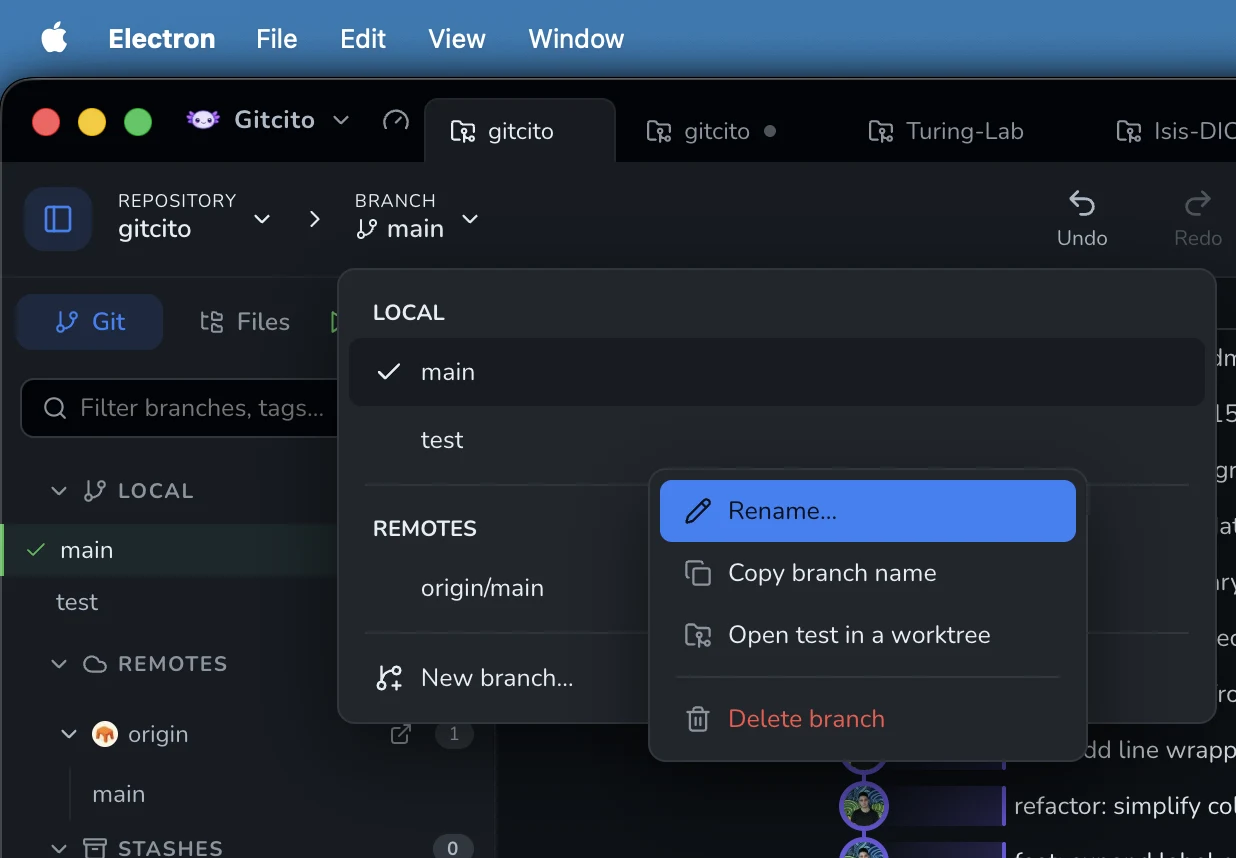
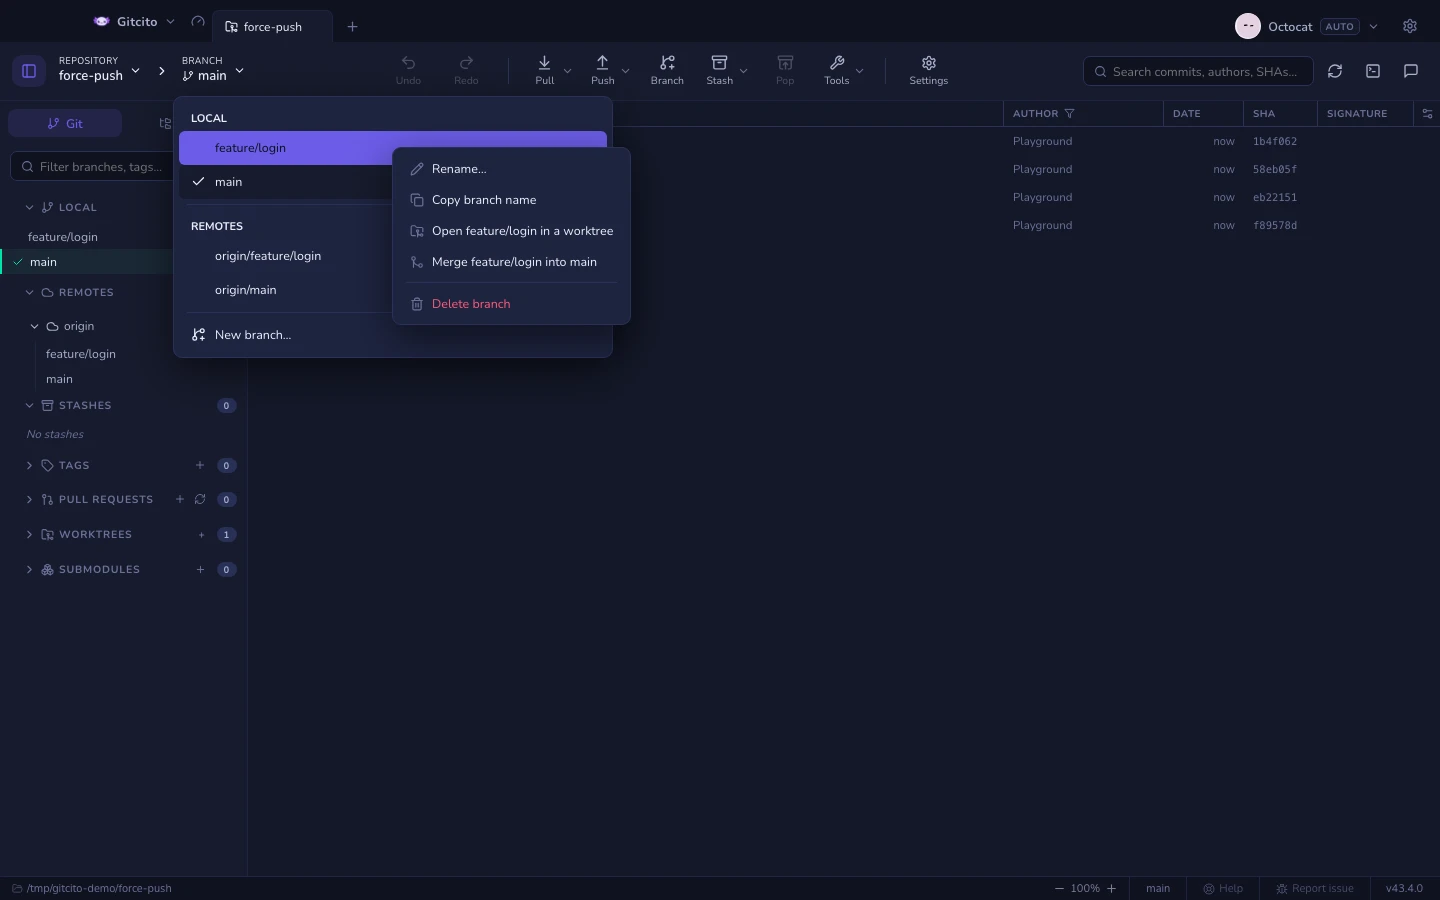
fix: regenerate branch dropdown shots via harness and localize docs
- Replace hand-grabbed screenshots with Playwright-driven captures
  against the force-push playground repo (shots.config.mjs entries)
- Translate the new branching.md section into all 15 handbook locales
- Render the branch pill label through toolbar.branch instead of a
  hardcoded string
- Revert the unrelated install-electron postinstall change

diff --git a/src/renderer/src/components/BranchStatusPicker.tsx b/src/renderer/src/components/BranchStatusPicker.tsx
@@ -212,7 +212,7 @@ export function BranchStatusPicker({ repo }: { repo: RepoData }): React.JSX.Elem
         onClick={toggle}
       >
         <span className="repo-pill-stack">
-          <span className="repo-pill-label">branch</span>
+          <span className="repo-pill-label">{t('toolbar.branch')}</span>
           <strong>
             <GitBranch size={12} /> {repo.branches.current || t('toolbar.noBranch')}
           </strong>

diff --git a/docs/help/uk/branching.md b/docs/help/uk/branching.md
@@ -33,6 +33,19 @@ keywords: гілка branch гілки branches створити create чека
 саме ті гілки, що зникнуть — поточна гілка виключена. Те саме меню є на теках
 віддалених гілок, там видалення відбувається з віддаленого репозиторію.
 
+Випадний список гілок на панелі інструментів показує локальні та віддалені
+гілки. Клацніть правою кнопкою будь-яку гілку в цьому списку, щоб
+перейменувати локальну гілку, скопіювати її назву, відкрити її в новому
+worktree, злити її в активну гілку або видалити. Для віддалених гілок
+перейменування недоступне, а видалення після підтвердження виконується на
+їхньому віддаленому репозиторії. Gitcito приховує злиття, коли вибране
+посилання вже міститься в активній гілці, і вимикає створення worktree,
+коли цю гілку вже вилучено.
+
+![Дії з локальною гілкою у випадному списку панелі інструментів](../../screenshots/branch-dropdown-local-context-menu.webp)
+
+![Дії з віддаленою гілкою у випадному списку панелі інструментів](../../screenshots/branch-dropdown-remote-context-menu.webp)
+
 Рядки виділяються групами, як файли: клік із <kbd>⌘/Ctrl</kbd> перемикає рядок,
 клік із <kbd>Shift</kbd> виділяє діапазон, а
 <kbd>Shift</kbd>+<kbd>↑</kbd>/<kbd>↓</kbd> розширює виділення від останнього

diff --git a/docs/help/ja/branching.md b/docs/help/ja/branching.md
@@ -30,6 +30,17 @@ keywords: ブランチ branch branches 作成 create チェックアウト check
 は、どのブランチが消えるかを正確に列挙する 1 回の確認のあと、中身をすべて削除します —
 いまいるブランチは除外されます。同じメニューはリモートブランチのフォルダにもあり、そちらはリモートから削除します。
 
+ツールバーのブランチドロップダウンには、ローカルブランチとリモートブランチが一覧表示されます。
+このドロップダウン内のブランチを右クリックすると、ローカルブランチの名前変更、ブランチ名のコピー、
+新しいワークツリーでのチェックアウト、アクティブなブランチへのマージ、削除ができます。
+リモートブランチでは名前変更は表示されず、確認後にリモートから削除されます。
+選択した参照がすでにアクティブなブランチに含まれている場合、Gitcito はマージを表示せず、
+そのブランチがすでにチェックアウトされている場合はワークツリーの作成を無効にします。
+
+![ツールバーのドロップダウンでのローカルブランチ操作](../../screenshots/branch-dropdown-local-context-menu.webp)
+
+![ツールバーのドロップダウンでのリモートブランチ操作](../../screenshots/branch-dropdown-remote-context-menu.webp)
+
 行はファイルと同じように複数選択できます。<kbd>⌘/Ctrl</kbd>+クリックで行を切り替え、<kbd>Shift</kbd>+クリックで範囲を選択し、<kbd>Shift</kbd>+<kbd>↑</kbd>/<kbd>↓</kbd>
 で最後にクリックした行から選択を広げます。選択範囲を右クリックすると一括メニュー — *4 件のブランチを削除* —
 が開き、完全な一覧つきで確認します。同じ操作はリモートブランチ、タグ、スタッシュでも使えます。

diff --git a/docs/help/ru/branching.md b/docs/help/ru/branching.md
@@ -36,6 +36,19 @@ keywords: ветка ветки создать переключить переи
 исключается. То же меню есть на папках удалённых веток, там удаление идёт с
 удалённого репозитория.
 
+Выпадающий список веток на панели инструментов показывает локальные и
+удалённые ветки. Кликните правой кнопкой по любой ветке в этом списке,
+чтобы переименовать локальную ветку, скопировать её имя, открыть её в новом
+worktree, влить её в активную ветку или удалить. Для удалённых веток
+переименование недоступно, а удаление после подтверждения выполняется на их
+удалённом репозитории. Gitcito скрывает слияние, когда выбранная ссылка уже
+содержится в активной ветке, и отключает создание worktree, когда эта ветка
+уже извлечена.
+
+![Действия с локальной веткой в выпадающем списке панели инструментов](../../screenshots/branch-dropdown-local-context-menu.webp)
+
+![Действия с удалённой веткой в выпадающем списке панели инструментов](../../screenshots/branch-dropdown-remote-context-menu.webp)
+
 Строки выделяются группами, как файлы: клик с <kbd>⌘/Ctrl</kbd> переключает
 строку, клик с <kbd>Shift</kbd> выделяет диапазон, а
 <kbd>Shift</kbd>+<kbd>↑</kbd>/<kbd>↓</kbd> расширяет выделение от последней

diff --git a/docs/help/he/branching.md b/docs/help/he/branching.md
@@ -31,6 +31,17 @@ keywords: ענף ענפים יצירה צ׳קאאוט שינוי שם מחיקה
 הענף שעליו אתם נמצאים מוחרג. אותו תפריט קיים גם על תיקיות של ענפים מרוחקים,
 ומוחק מהרימוט במקום.
 
+תפריט הענפים הנפתח בסרגל הכלים מציג ענפים מקומיים ומרוחקים. לחיצה ימנית על
+ענף בתפריט זה מאפשרת לשנות שם של ענף מקומי, להעתיק את שמו, לפתוח אותו בעץ
+עבודה (worktree) חדש, למזג אותו אל הענף הפעיל או למחוק אותו. ענפים מרוחקים
+אינם מציעים שינוי שם, ונמחקים מהשרת המרוחק לאחר אישור. Gitcito מסתיר את
+המיזוג כאשר ההפניה שנבחרה כבר כלולה בענף הפעיל, ומשבית יצירת עץ עבודה כאשר
+הענף כבר משוך.
+
+![פעולות על ענף מקומי בתפריט הנפתח של סרגל הכלים](../../screenshots/branch-dropdown-local-context-menu.webp)
+
+![פעולות על ענף מרוחק בתפריט הנפתח של סרגל הכלים](../../screenshots/branch-dropdown-remote-context-menu.webp)
+
 שורות נבחרות בבחירה מרובה כמו קבצים: לחיצה עם <kbd>⌘/Ctrl</kbd> מחליפה מצב של
 שורה, לחיצה עם <kbd>Shift</kbd> בוחרת טווח,
 ו-<kbd>Shift</kbd>+<kbd>↑</kbd>/<kbd>↓</kbd> מרחיבים את הבחירה מהשורה האחרונה

diff --git a/docs/help/zh-CN/branching.md b/docs/help/zh-CN/branching.md
@@ -26,6 +26,16 @@ keywords: branch 分支 branches create 创建 checkout 检出 rename 重命名 
 右键点击文件夹标题可对整组操作：*删除 `feature` 下的所有分支（4 个分支）*
 会在一次确认后删除其中的全部分支，确认框会准确列出哪些分支将被删除——你当前所在的分支除外。远程分支的文件夹上也有同样的菜单，只是删除的是远程上的分支。
 
+工具栏中的分支下拉列表会列出本地和远程分支。右键点击下拉列表中的任意分支，
+可以重命名本地分支、复制分支名、在新的工作树（worktree）中检出、将其合并到
+当前分支，或删除它。远程分支不提供重命名，确认后会从其远程仓库中删除。
+当所选引用已包含在当前分支中时，Gitcito 会隐藏合并选项；当该分支已被检出时，
+会禁用创建工作树。
+
+![工具栏下拉列表中的本地分支操作](../../screenshots/branch-dropdown-local-context-menu.webp)
+
+![工具栏下拉列表中的远程分支操作](../../screenshots/branch-dropdown-remote-context-menu.webp)
+
 行可以像文件一样多选：<kbd>⌘/Ctrl</kbd>+点击切换一行，<kbd>Shift</kbd>+点击选中一段范围，<kbd>Shift</kbd>+<kbd>↑</kbd>/<kbd>↓</kbd>
 则从最后点击的那行开始扩展选择。在选中项上右键打开批量菜单——*删除 4 个分支*——确认框会列出完整名单。同样的手势也适用于远程分支、标签和贮藏。
 

diff --git a/docs/help/fr/branching.md b/docs/help/fr/branching.md
@@ -38,6 +38,19 @@ branche courante est exclue. Le même menu existe sur les dossiers de branches
 distantes, en supprimant côté distant.
 
 Les lignes se sélectionnent en groupe comme des fichiers : un clic avec
+Le menu déroulant des branches dans la barre d'outils liste les branches
+locales et distantes. Un clic droit sur une branche de ce menu permet de
+renommer une branche locale, copier son nom, l'extraire dans un nouveau
+worktree, la fusionner dans la branche active ou la supprimer. Les branches
+distantes n'offrent pas le renommage et sont supprimées de leur dépôt
+distant après confirmation. Gitcito masque la fusion quand la référence
+sélectionnée est déjà contenue dans la branche active, et désactive la
+création de worktree quand cette branche est déjà extraite.
+
+![Actions sur une branche locale dans le menu déroulant de la barre d'outils](../../screenshots/branch-dropdown-local-context-menu.webp)
+
+![Actions sur une branche distante dans le menu déroulant de la barre d'outils](../../screenshots/branch-dropdown-remote-context-menu.webp)
+
 <kbd>⌘/Ctrl</kbd> bascule une ligne, un clic avec <kbd>Maj</kbd> sélectionne
 une plage, et <kbd>Maj</kbd>+<kbd>↑</kbd>/<kbd>↓</kbd> étend la sélection
 depuis la dernière ligne cliquée. Un clic droit sur la sélection ouvre le menu

diff --git a/docs/help/de/branching.md b/docs/help/de/branching.md
@@ -35,6 +35,19 @@ Bestätigung, die genau auflistet, welche Branches gehen — der Branch, auf dem
 du stehst, bleibt außen vor. Dasselbe Menü gibt es auf Remote-Branch-Ordnern;
 dort wird vom Remote gelöscht.
 
+Das Branch-Dropdown in der Werkzeugleiste listet lokale und Remote-Branches.
+Ein Rechtsklick auf einen Branch in diesem Dropdown benennt einen lokalen
+Branch um, kopiert seinen Namen, checkt ihn in einem neuen Worktree aus,
+mergt ihn in den aktiven Branch oder löscht ihn. Remote-Branches bieten kein
+Umbenennen an und werden nach einer Bestätigung von ihrem Remote gelöscht.
+Gitcito blendet den Merge aus, wenn die gewählte Referenz bereits im aktiven
+Branch enthalten ist, und deaktiviert das Anlegen eines Worktrees, wenn der
+Branch schon ausgecheckt ist.
+
+![Aktionen für lokale Branches im Dropdown der Werkzeugleiste](../../screenshots/branch-dropdown-local-context-menu.webp)
+
+![Aktionen für Remote-Branches im Dropdown der Werkzeugleiste](../../screenshots/branch-dropdown-remote-context-menu.webp)
+
 Zeilen lassen sich wie Dateien mehrfach auswählen: <kbd>⌘/Strg</kbd>-Klick
 schaltet eine Zeile um, <kbd>Umschalt</kbd>-Klick wählt einen Bereich, und
 <kbd>Umschalt</kbd>+<kbd>↑</kbd>/<kbd>↓</kbd> erweitert die Auswahl von der

diff --git a/docs/help/pl/branching.md b/docs/help/pl/branching.md
@@ -35,6 +35,18 @@ potwierdzeniu, które wypisuje dokładnie, które gałęzie znikną — gałąź
 której jesteś, jest wykluczona. To samo menu istnieje na katalogach zdalnych
 gałęzi, usuwając wtedy ze zdalnego repozytorium.
 
+Rozwijana lista gałęzi na pasku narzędzi pokazuje gałęzie lokalne i zdalne.
+Kliknij prawym przyciskiem dowolną gałąź na tej liście, aby zmienić nazwę
+gałęzi lokalnej, skopiować jej nazwę, otworzyć ją w nowym worktree, scalić
+ją z aktywną gałęzią lub ją usunąć. Gałęzie zdalne nie oferują zmiany nazwy
+i po potwierdzeniu są usuwane ze swojego zdalnego repozytorium. Gitcito
+pomija scalanie, gdy wybrana referencja jest już zawarta w aktywnej gałęzi,
+i wyłącza tworzenie worktree, gdy ta gałąź jest już wyewidencjonowana.
+
+![Akcje gałęzi lokalnej na rozwijanej liście paska narzędzi](../../screenshots/branch-dropdown-local-context-menu.webp)
+
+![Akcje gałęzi zdalnej na rozwijanej liście paska narzędzi](../../screenshots/branch-dropdown-remote-context-menu.webp)
+
 Wiersze zaznacza się grupowo jak pliki: klik z <kbd>⌘/Ctrl</kbd> przełącza
 wiersz, klik z <kbd>Shift</kbd> zaznacza zakres, a
 <kbd>Shift</kbd>+<kbd>↑</kbd>/<kbd>↓</kbd> rozszerza zaznaczenie od ostatnio
